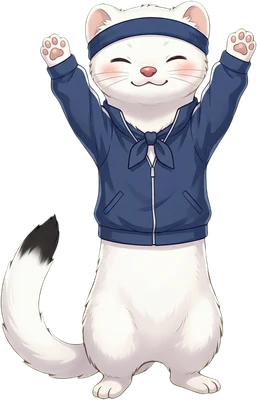
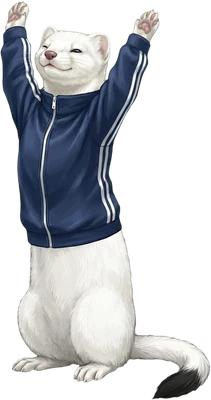
こゆきを本物に近いオコジョに描き直し、案内役に本気で怒る表情を足す (#115)
* マイページで担当者の名前を入れられるようにする

Claude-Session: https://claude.ai/code/session_01Dfj8uCgoFYmBxr41ojgaov

* 案内役を しおり・源さん・こゆき（オコジョ）から選べるようにする

男の人とオコジョの絵は Gemini で15表情ずつ作り、背景を抜いて透過にした。
マイページで選ぶと、ログイン後の画面の絵と顔のアイコンがかわる。

Claude-Session: https://claude.ai/code/session_01Dfj8uCgoFYmBxr41ojgaov

* 案内役の服を選べるようにする（しおり5着・源さん2着・おまかせ）。源さんを白髪まじりのベテラン職人に

Claude-Session: https://claude.ai/code/session_01Dfj8uCgoFYmBxr41ojgaov

* スーツのしおりを Gemini で作り直す（ほかの服と同じ顔に）

Claude-Session: https://claude.ai/code/session_01Dfj8uCgoFYmBxr41ojgaov

* 案内役の服に 体操着 と お出かけ を足す（しおり・源さん）

Claude-Session: https://claude.ai/code/session_01Dfj8uCgoFYmBxr41ojgaov

* しおりのお出かけの服からコートを外す

Claude-Session: https://claude.ai/code/session_01Dfj8uCgoFYmBxr41ojgaov

* こゆきを本物に近いオコジョに描き直し、案内役に本気で怒る表情を足す

Claude-Session: https://claude.ai/code/session_01Dfj8uCgoFYmBxr41ojgaov

---------

diff --git a/src/lib/guideWidths.ts b/src/lib/guideWidths.ts
@@ -1,16 +1,16 @@
 // 案内役の絵の幅（高さ400のとき）。public/guide の絵から作る（絵を足したら作り直す）。
 // 鍵は絵のファイル名の頭（例 shiori-work）、中は表情ごとの幅。
 export const GUIDE_WIDTHS: Record<string, Record<string, number>> = {
-  "gen": {"ask": 285, "bow": 260, "cheer": 298, "coffee": 299, "idea": 286, "jersey-cheer": 295, "jersey-done": 287, "jersey-stretch": 206, "joy": 290, "point": 290, "right": 297, "sad": 251, "surprise": 298, "think": 265, "welldone": 284},
-  "gen-gym": {"ask": 243, "bow": 237, "cheer": 256, "coffee": 243, "idea": 264, "joy": 236, "point": 239, "right": 246, "sad": 231, "surprise": 299, "think": 234, "welldone": 237},
-  "gen-out": {"ask": 248, "bow": 249, "cheer": 266, "coffee": 248, "idea": 258, "joy": 242, "point": 276, "right": 254, "sad": 244, "surprise": 288, "think": 228, "welldone": 240},
-  "gen-suit": {"ask": 230, "bow": 238, "cheer": 251, "coffee": 231, "idea": 231, "joy": 220, "point": 242, "right": 231, "sad": 211, "surprise": 277, "think": 213, "welldone": 215},
-  "koyuki": {"ask": 224, "bow": 284, "cheer": 224, "coffee": 224, "idea": 224, "jersey-cheer": 226, "jersey-done": 231, "jersey-stretch": 257, "joy": 224, "point": 271, "right": 224, "sad": 224, "surprise": 224, "think": 224, "welldone": 229},
-  "shiori": {"ask": 193, "bow": 153, "cheer": 239, "coffee": 188, "idea": 209, "jersey-cheer": 238, "jersey-done": 200, "jersey-stretch": 295, "joy": 173, "point": 230, "right": 208, "sad": 191, "surprise": 241, "think": 186, "welldone": 173},
-  "shiori-casual": {"ask": 256, "bow": 237, "cheer": 224, "coffee": 210, "idea": 212, "joy": 197, "point": 245, "right": 218, "sad": 198, "surprise": 289, "think": 191, "welldone": 194},
-  "shiori-gym": {"ask": 245, "bow": 175, "cheer": 267, "coffee": 175, "idea": 202, "joy": 167, "point": 243, "right": 212, "sad": 169, "surprise": 250, "think": 163, "welldone": 170},
-  "shiori-out": {"ask": 235, "bow": 185, "cheer": 201, "coffee": 183, "idea": 184, "joy": 184, "point": 225, "right": 189, "sad": 184, "surprise": 254, "think": 184, "welldone": 184},
-  "shiori-summer": {"ask": 215, "bow": 156, "cheer": 181, "coffee": 154, "idea": 170, "joy": 153, "point": 250, "right": 161, "sad": 146, "surprise": 187, "think": 154, "welldone": 158},
-  "shiori-winter": {"ask": 259, "bow": 224, "cheer": 249, "coffee": 227, "idea": 240, "joy": 226, "point": 260, "right": 243, "sad": 221, "surprise": 275, "think": 215, "welldone": 226},
-  "shiori-work": {"ask": 245, "bow": 256, "cheer": 264, "coffee": 243, "idea": 256, "joy": 220, "point": 278, "right": 256, "sad": 241, "surprise": 274, "think": 238, "welldone": 220},
+  "gen": {"angry": 298, "ask": 285, "bow": 260, "cheer": 298, "coffee": 299, "idea": 286, "jersey-cheer": 295, "jersey-done": 287, "jersey-stretch": 206, "joy": 290, "point": 290, "right": 297, "sad": 251, "surprise": 298, "think": 265, "welldone": 284},
+  "gen-gym": {"angry": 301, "ask": 243, "bow": 237, "cheer": 256, "coffee": 243, "idea": 264, "joy": 236, "point": 239, "right": 246, "sad": 231, "surprise": 299, "think": 234, "welldone": 237},
+  "gen-out": {"angry": 265, "ask": 248, "bow": 249, "cheer": 266, "coffee": 248, "idea": 258, "joy": 242, "point": 276, "right": 254, "sad": 244, "surprise": 288, "think": 228, "welldone": 240},
+  "gen-suit": {"angry": 279, "ask": 230, "bow": 238, "cheer": 251, "coffee": 231, "idea": 231, "joy": 220, "point": 242, "right": 231, "sad": 211, "surprise": 277, "think": 213, "welldone": 215},
+  "koyuki": {"angry": 288, "ask": 217, "bow": 232, "cheer": 248, "coffee": 220, "idea": 238, "jersey-cheer": 222, "jersey-done": 230, "jersey-stretch": 211, "joy": 215, "point": 218, "right": 248, "sad": 232, "surprise": 252, "think": 212, "welldone": 225},
+  "shiori": {"angry": 250, "ask": 193, "bow": 153, "cheer": 239, "coffee": 188, "idea": 209, "jersey-cheer": 238, "jersey-done": 200, "jersey-stretch": 295, "joy": 173, "point": 230, "right": 208, "sad": 191, "surprise": 241, "think": 186, "welldone": 173},
+  "shiori-casual": {"angry": 284, "ask": 256, "bow": 237, "cheer": 224, "coffee": 210, "idea": 212, "joy": 197, "point": 245, "right": 218, "sad": 198, "surprise": 289, "think": 191, "welldone": 194},
+  "shiori-gym": {"angry": 266, "ask": 245, "bow": 175, "cheer": 267, "coffee": 175, "idea": 202, "joy": 167, "point": 243, "right": 212, "sad": 169, "surprise": 250, "think": 163, "welldone": 170},
+  "shiori-out": {"angry": 216, "ask": 235, "bow": 185, "cheer": 201, "coffee": 183, "idea": 184, "joy": 184, "point": 225, "right": 189, "sad": 184, "surprise": 254, "think": 184, "welldone": 184},
+  "shiori-summer": {"angry": 223, "ask": 215, "bow": 156, "cheer": 181, "coffee": 154, "idea": 170, "joy": 153, "point": 250, "right": 161, "sad": 146, "surprise": 187, "think": 154, "welldone": 158},
+  "shiori-winter": {"angry": 299, "ask": 259, "bow": 224, "cheer": 249, "coffee": 227, "idea": 240, "joy": 226, "point": 260, "right": 243, "sad": 221, "surprise": 275, "think": 215, "welldone": 226},
+  "shiori-work": {"angry": 278, "ask": 245, "bow": 256, "cheer": 264, "coffee": 243, "idea": 256, "joy": 220, "point": 278, "right": 256, "sad": 241, "surprise": 274, "think": 238, "welldone": 220},
 };

diff --git a/src/app/page.tsx b/src/app/page.tsx
@@ -15,7 +15,7 @@ import { TownBoard } from "@/components/TownBoard";
 import { WhatsNew } from "@/components/WhatsNew";
 import { MfgTip } from "@/components/MfgTip";
 import { useShioriTone } from "@/components/useShioriTone";
-import { homeLines, referenceTime } from "@/lib/shioriTone";
+import { homeLines, homeMood, referenceTime } from "@/lib/shioriTone";
 import { EmptyState, Notice, StatusBadge, formatDate, monthLabel } from "@/components/ui";
 import { useStore } from "@/mock/store";
 import { articleHref, articleSummaries } from "@/lib/selectors";
@@ -38,13 +38,14 @@ export default function HomePage() {
   const org = db.organizations.find((o) => o.id === orgId);
   const mine = db.articles.filter((a) => a.organizationId === orgId);
   const lastWork = mine.reduce((m, a) => Math.max(m, new Date(a.updatedAt).getTime() || 0), 0);
-  const lines = homeLines(tone, {
+  const situation = {
     publishedThisMonth: mine.filter((a) => a.publishedAt?.startsWith(month)).length,
     workedThisMonth: mine.filter((a) => a.updatedAt.startsWith(month)).length,
     inProgress: !!inProgress,
     totalArticles: mine.length,
     daysSinceLastWork: lastWork ? Math.max(0, Math.floor((referenceTime(month, nowMs) - lastWork) / 86_400_000)) : null,
-  });
+  };
+  const lines = homeLines(tone, situation);
 
   return (
     <main className="page space-y-6">
@@ -60,7 +61,7 @@ export default function HomePage() {
         <h1 className="text-2xl font-black leading-snug sm:text-3xl">
           {user.name}さん、こんにちは <Wave />
         </h1>
-        <ShioriTalk mood="jersey-cheer" size="lg" lines={lines} />
+        <ShioriTalk mood={homeMood(tone, situation)} size="lg" lines={lines} />
         <ChosenPath className="mt-2" />
       </div>
       <WhatsNew />

diff --git a/src/lib/shioriTone.test.ts b/src/lib/shioriTone.test.ts
@@ -1,5 +1,5 @@
 import { describe, expect, it } from "vitest";
-import { ALL_HOME_LINES, TONES, homeCase, homeLines, isTone, referenceTime } from "./shioriTone";
+import { ALL_HOME_LINES, TONES, homeCase, homeLines, isTone, referenceTime, homeMood } from "./shioriTone";
 
 const base = { publishedThisMonth: 0, workedThisMonth: 0, inProgress: false, totalArticles: 3, daysSinceLastWork: 3 };
 
@@ -35,5 +35,17 @@ describe("今の時刻", () => {
   it("今月ならそのまま、前の月ならその月の終わり", () => {
     expect(referenceTime("2026-11", now)).toBe(now);
     expect(new Date(referenceTime("2026-10", now)).toISOString()).toBe("2026-10-31T14:59:59.999Z");
+  });
+});
+
+describe("ホームの表情", () => {
+  const base = { publishedThisMonth: 0, workedThisMonth: 0, inProgress: false, totalArticles: 3, daysSinceLastWork: 40 };
+  it("きびしめで、書く手が止まっているときだけ本気で怒る", () => {
+    expect(homeMood("strict", base)).toBe("angry");
+    expect(homeMood("strict", { ...base, inProgress: true, daysSinceLastWork: 8 })).toBe("angry");
+    expect(homeMood("strict", { ...base, publishedThisMonth: 1 })).toBe("jersey-cheer");
+    expect(homeMood("strict", { ...base, totalArticles: 0, daysSinceLastWork: null })).toBe("jersey-cheer");
+    expect(homeMood("normal", base)).toBe("jersey-cheer");
+    expect(homeMood("gentle", base)).toBe("jersey-cheer");
   });
 });

diff --git a/src/lib/updates.ts b/src/lib/updates.ts
@@ -16,6 +16,14 @@ export interface AppUpdate {
 
 export const UPDATES: AppUpdate[] = [
   {
+    id: "2026-11-07-koyuki-angry",
+    date: "2026-11-07",
+    title: "こゆきが本物そっくりになり、案内役が本気で怒るようになりました",
+    body: "オコジョのこゆきを、本物に近い姿に描き直しました。話し方を「きびしめ」にしていると、記事が止まっているときや今月まだ書いていないとき、ホームで案内役が本気で怒ります。",
+    href: "/mypage",
+    linkLabel: "案内役と話し方を選ぶ",
+  },
+  {
     id: "2026-11-07-outfit",
     date: "2026-11-07",
     title: "案内役が着がえられるようになりました",

diff --git a/src/components/fun.tsx b/src/components/fun.tsx
@@ -141,7 +141,9 @@ export type ShioriMood =
   | "bow"
   | "jersey-cheer"
   | "jersey-stretch"
-  | "jersey-done";
+  | "jersey-done"
+  /** 本気で怒っている（2026-11-07 田村さん「怒った時とか本気怒りしてる感じ」）。きびしめの話し方で、書く手が止まっているときに使う */
+  | "angry";
 /** 案内役の絵の場所と幅。選んだ案内役（しおり・源さん・こゆき）と服で変わる（src/lib/guideCharacter.ts） */
 function guideImage(file: string, mood: ShioriMood): { src: string; width: number } {
   return { src: `/guide/${file}-${mood}.webp`, width: GUIDE_WIDTHS[file]?.[mood] ?? 240 };

diff --git a/src/lib/guideCharacter.test.ts b/src/lib/guideCharacter.test.ts
@@ -2,7 +2,7 @@ import { describe, expect, it } from "vitest";
 import { AUTO_OUTFIT, guideFile, guideOf, resolveOutfit, seasonalOutfit } from "./guideCharacter";
 import { GUIDE_WIDTHS } from "./guideWidths";
 
-const MOODS = ["ask", "joy", "sad", "right", "welldone", "think", "surprise", "cheer", "idea", "coffee", "point", "bow", "jersey-cheer", "jersey-stretch", "jersey-done"];
+const MOODS = ["angry", "ask", "joy", "sad", "right", "welldone", "think", "surprise", "cheer", "idea", "coffee", "point", "bow", "jersey-cheer", "jersey-stretch", "jersey-done"];
 
 describe("案内役の服", () => {
   const shiori = guideOf("shiori");

diff --git a/src/lib/shioriTone.ts b/src/lib/shioriTone.ts
@@ -85,3 +85,9 @@ export function homeLines(tone: ShioriTone, s: HomeSituation): string[] {
 }
 
 export const ALL_HOME_LINES = LINES;
+
+/** ホームの案内役の表情。きびしめで書く手が止まっているときは本気で怒る。ほかはいつものジャージで応援 */
+export function homeMood(tone: ShioriTone, s: HomeSituation): "angry" | "jersey-cheer" {
+  const c = homeCase(s);
+  return tone === "strict" && (c === "inProgressStale" || c === "away" || c === "notYet") ? "angry" : "jersey-cheer";
+}

diff --git a/src/lib/guideCharacter.ts b/src/lib/guideCharacter.ts
@@ -56,7 +56,7 @@ export const GUIDES: GuideCharacter[] = [
       { id: "out", label: "お出かけ", file: "gen-out" },
     ],
   },
-  { id: "koyuki", name: "こゆき", note: "元気なオコジョ。いっしょにがんばる", file: "koyuki", outfits: [] },
+  { id: "koyuki", name: "こゆき", note: "本物そっくりのオコジョ。怒るとこわい", file: "koyuki", outfits: [] },
 ];
 
 export const DEFAULT_GUIDE: GuideId = "shiori";

diff --git a/docs/DECISIONS.md b/docs/DECISIONS.md
@@ -8,6 +8,7 @@
 |---|---|---|---|
 | 2026-11-07 | 案内役を「しおり・源さん（男性）・こゆき（オコジョ）」から選べるようにする。絵は Gemini（gemini-3.1-flash-image）で15表情ずつ作り、緑の背景を抜いて透過にした。選んだ案内役はブラウザに覚える（話し方と同じ）。ログイン前の画面（入口・ためす・自己紹介・ログイン・招待・規約）はサービスの顔なので しおり のまま。男性は田村さんの参考（落ち着いた大人の男性の雰囲気）をもとにしたオリジナルで、実在の作品の人物には似せない。名前（源さん・こゆき）は仮。画面の言葉の「しおり」はまだ多くの所で固定 | 田村さん（2026-11-07）「しおりだけじゃなくて、男の人と、キャラクターを選べるようにしたい。キャラクターはオコジョ。作るのはジェミニに」 | 利用者の声を聞いたあと |
 | 2026-11-07 | 案内役に服を選べるようにする。しおりは スーツ（ふだん）・作業着・カジュアル・冬のコート・夏の半そで・体操着・お出かけ、源さんは 作業着（ふだん）・スーツ・体操着・お出かけ（体操着とお出かけは田村さん「あとは体操着、外行きの服」で追加）。夏か冬の服がある案内役には「おまかせ」（6〜9月は夏、12〜2月は冬、ほかはふだん）。ジャージの3表情は服に関係なく同じ絵。源さんの絵は4案から田村さんが選んだ「ベテラン職人」を白髪まじりにしたものに替えた。絵は Gemini で服ごとに12表情を作り、幅の表 src/lib/guideWidths.ts は public/guide の絵から作る。選んだ服はブラウザに覚える。ログイン前の画面は スーツの しおり のまま | 田村さん（2026-11-07）「ベテラン職人いいね」「スーツ着たり、作業着着たり。パターンがあるからね。もうちょい白髪」「しおりもいいね。作らせるのはジェミニで」 | 利用者の声を聞いたあと |
+| 2026-11-07 | こゆきを本物に近いオコジョ（3案から田村さんがAを選んだ）に描き直す。表情に「angry（本気で怒る）」を足し、全員・全部の服で描いた。ホームでは話し方が「きびしめ」で、書く手が止まっている（書きかけが1週間以上・1か月以上空いた・今月まだ）ときだけ angry にする（src/lib/shioriTone.ts の homeMood） | 田村さん（2026-11-07）「こゆき、もっとリアルオコジョで」「A位にしておこう。怒った時とか本気怒りしてる感じね」 | 利用者の声を聞いたあと |
 | 2026-11-07 | 利用規約・プライバシーポリシー・特商法の表記を、やさしい言葉と「かんたんに言うと」で書く。決まっていない所は【要確認】の札にし、案のあいだ（LEGAL_DRAFT）は利用者の画面にリンクしない。特商法の表記は有料のプランを始めるまでリンクしない | 田村さん（2026-11-04）「利用規約」。ターゲットはITが苦手な製造業の方。代表者・住所などを推測で埋めない | 田村さんの確認のあと |
 | 2026-11-07 | Googleでログインを足す。招待制のまま（Supabase の新規登録はオフ、戻ったあとに所属か全社管理者かを確かめる）。ボタンは NEXT_PUBLIC_GOOGLE_LOGIN=on のときだけ出す | 田村さん（2026-11-04）「Googleログイン機能」。Supabase で有効にする前に押せないボタンを出さないため | 本物の Google で試したあと |
 | 2026-11-04 | 製造業の知識表（src/lib/manufacturing、docs/MANUFACTURING.md）を作り、製造業の会社のときだけ、書き手に書き方のコツと「読む人がよく抱く疑問」の例、点検役に確かめる点、記事の提案に記事の案を渡す。疑問の例は見出しの参考で、記事の事実としては使わせない。ホームに「製造業のこぼれ話」、入口のページに製造業に特化している理由、管理画面 /admin/knowledge。DBは使わない | 田村さん「製造業特化の理由（様々な製造業の悩みや疑問、成功事例を様々なサイトを巡回して取り入れる）」「広く、深く調査を。当サービスのきもになる部分」 | 次の収集のとき（定期の作業にするかは田村さんの確認待ち） |

diff --git a/docs/HANDOFF.md b/docs/HANDOFF.md
@@ -119,6 +119,11 @@
 
 ## 記録
 
+### 2026-11-07 CC（Claude、プロジェクトのスレッド）こゆきをリアルに・本気で怒る表情
+- ブランチ：claude/project-thread-fdzisk
+- 変更点：こゆきを本物に近いオコジョ16表情に差し替え。表情 angry を全員・全服に追加（Gemini）。ホームの表情を homeMood で決める（きびしめで止まっているときだけ angry。テストあり）。新しくなったことに1つ
+- 確認結果：lint・型検査・テスト通過。絵の一覧を目で確認（こゆきのおじぎは丸まって見えたので描き直した）
+
 ### 2026-11-07 CC（Claude、プロジェクトのスレッド）体操着とお出かけの服
 - ブランチ：claude/project-thread-fdzisk
 - 変更点：田村さん「あとは体操着、外行きの服」。しおり・源さんに 体操着（白T・紺のジャージのズボン）とお出かけ（しおり：半そでのニットとスカート。田村さん「しおりコートいらない」でコートを外した、源さん：スエードの上着とチノパン）を Gemini で12表情ずつ追加。「おまかせ」は夏か冬の服がある案内役だけに出す
